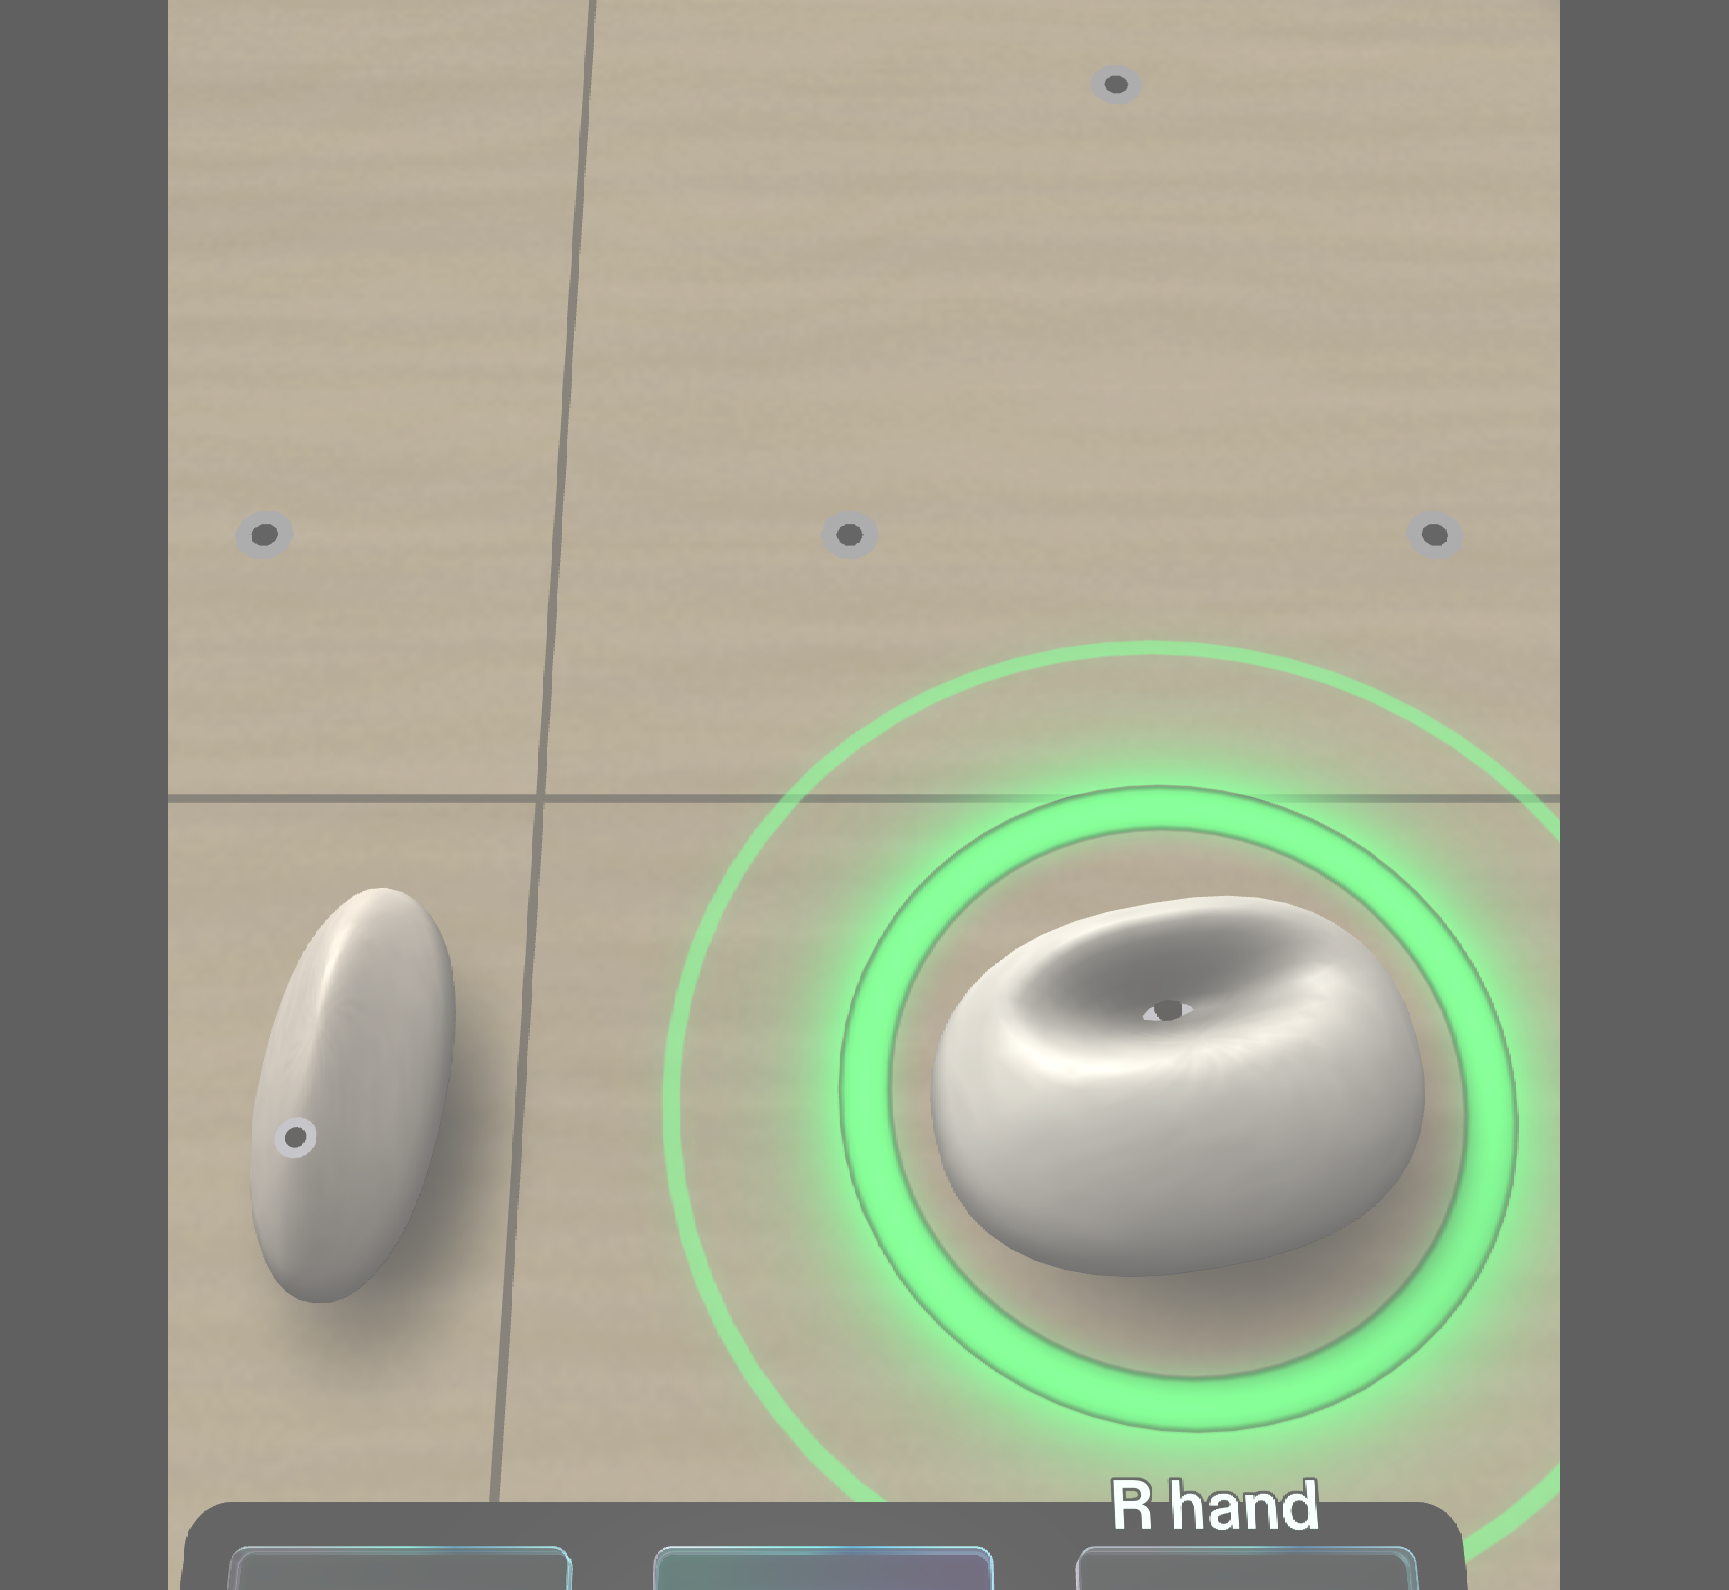
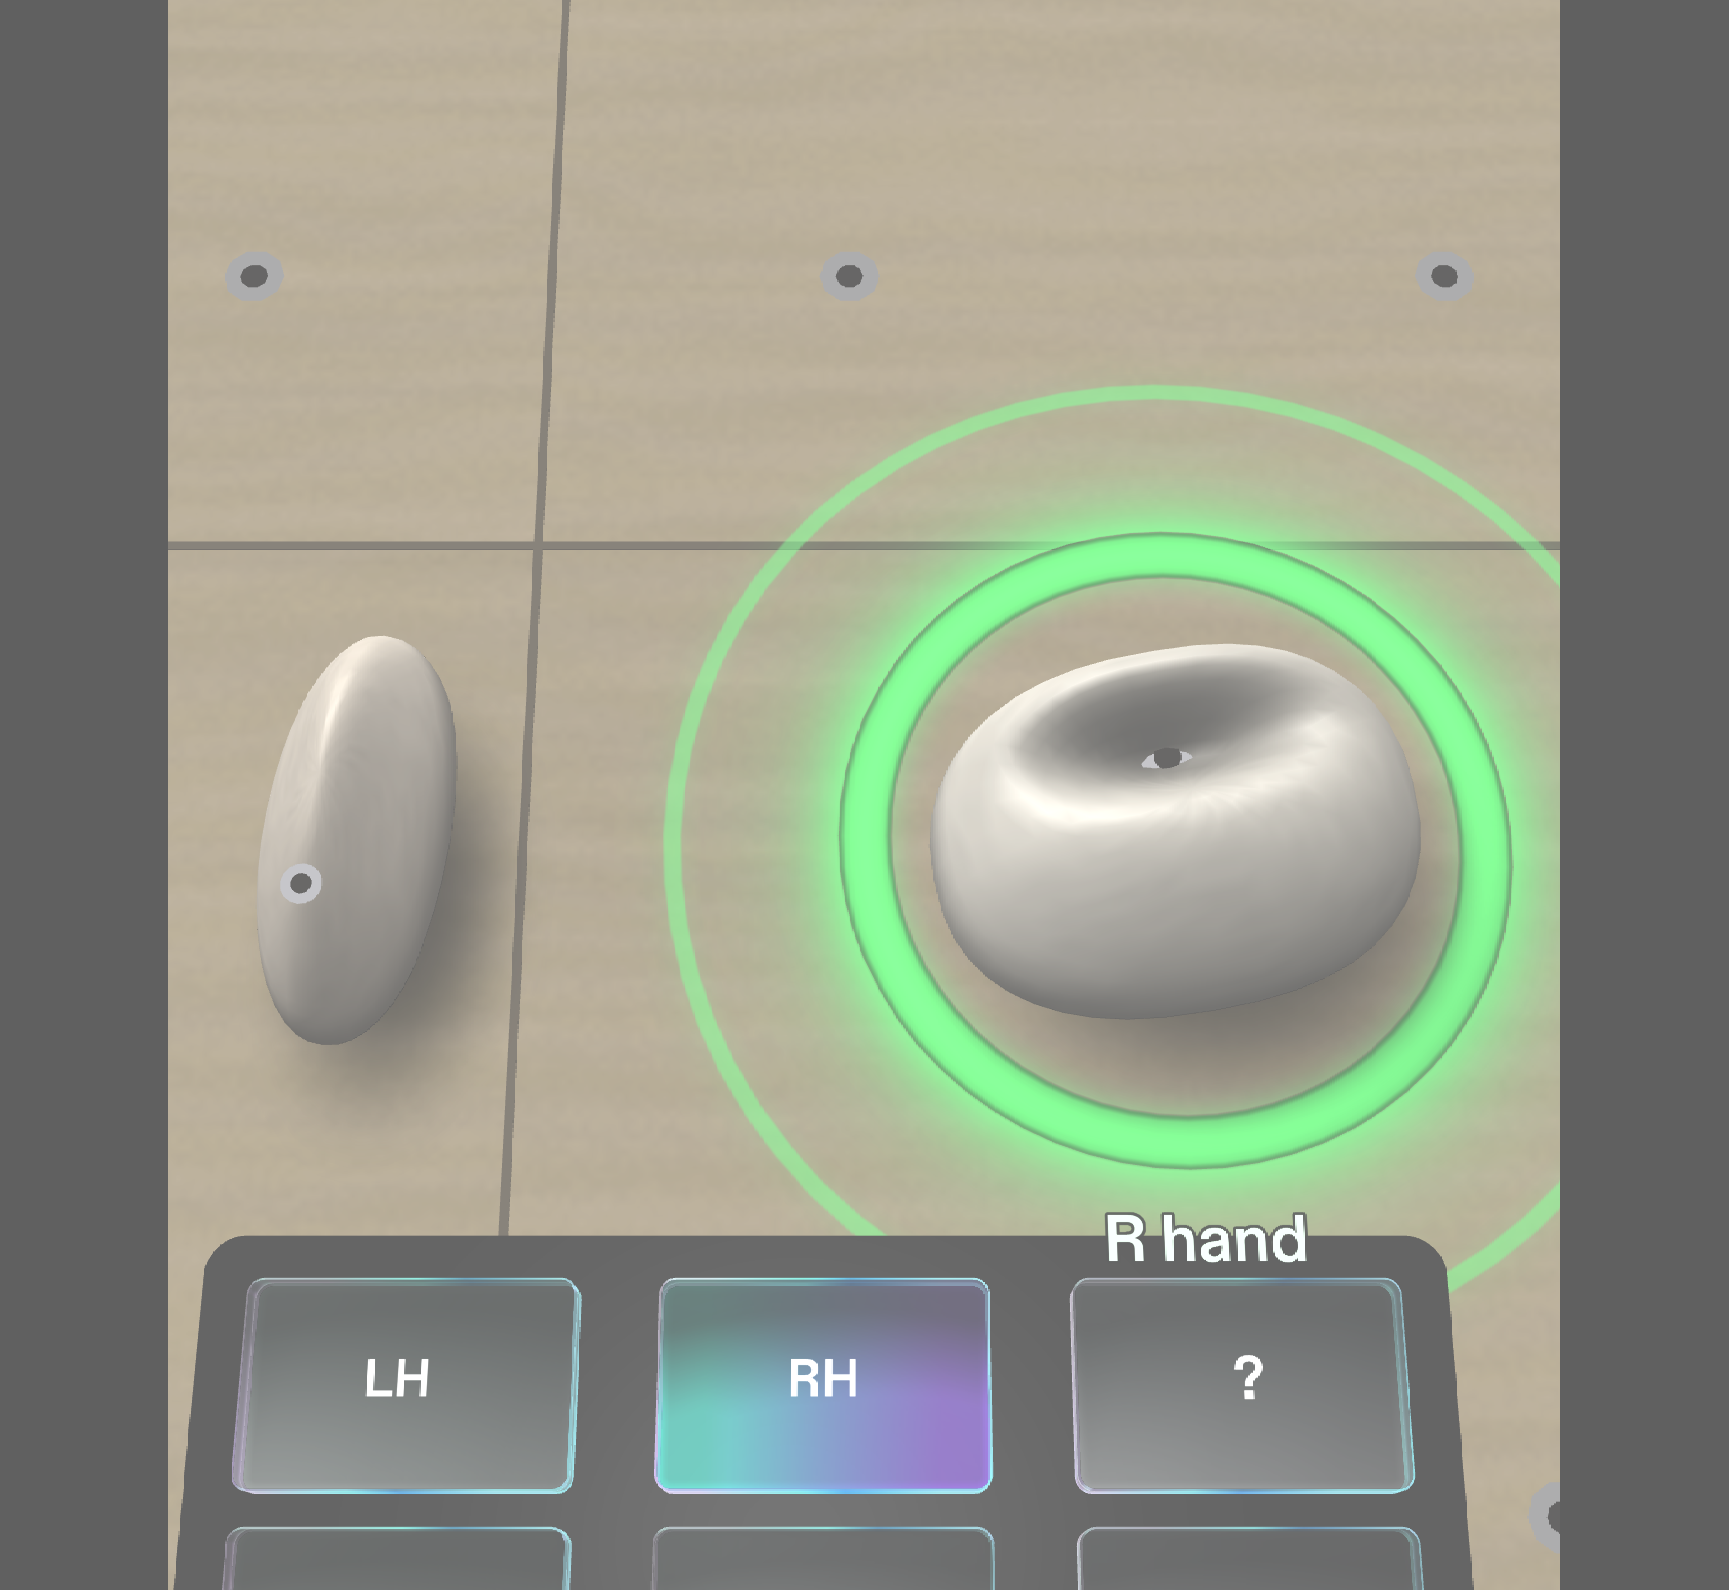
Screenshots retaken for the ring and figure changes; DEVPOST checked against them
Retaken from the same poses as session 15, each looked at before this commit:
- beta-195cm: "2 · LH" on the jug h10 now sits on a green ring (it was red);
  no figure smudge at the bottom
- beta-155cm: "2 · LH" on the green pinch h09; h10 untagged and red, as it should be
- ground-250-lower / -upper: the two looks from 2.5 m, no figure, the four limb
  markers on their holds, "TOP" over h20
- ground-mode: from 1.85 m, no figure, every tag on a ring of its own colour
- on-wall-mode: 70 cm, one ring and "R hand" (the figure is behind the panel here)
height-control.png doesn't change (On wall, panel close-up) and stays.

DEVPOST v4, line by line against these: the tag/ring rule now says the hold
under a tag wears its colour; the figure is On wall only, and why; sixteen
sessions; the LEAF log's extract script is named; the r3 description includes
the ring under the tag; the "panel beside the problem" claim now says r5 backs
it and the shots only show the panel's edge. VIDEO_PLAN scene 1 no longer
promises the figure from 2.5 m.

diff --git a/devpost/DEVPOST.md b/devpost/DEVPOST.md
@@ -1,10 +1,10 @@
-# Devpost draft: Next Hold (v3, 29.10, after session 15). Learn AR with SPECS. Entrant: Roman Pryvrotskyi (individual).
+# Devpost draft: Next Hold (v4, 29.10, after session 16). Learn AR with SPECS. Entrant: Roman Pryvrotskyi (individual).
 
 ## Tagline
 A bouldering coach on your glasses: read the problem for your own body from the mats, then climb with one ring showing the next move.
 
 ## What it does
-You stand on the mats, about two and a half metres back, and look up and down the problem you've marked, the way climbers read a problem before they start. Every free hold in it has a ring: green, yellow or red, for the hand or foot you'd move now (the holds you're on show a small marker). The rings stay on the holds as you look around, so the whole problem never has to fit in one view. The best next move glows with its label, "R hand", and the two moves after it are small tags on their own holds, "2 · LH" and "3 · LF". Each tag is outlined in its own colour, green or yellow: how secure that move will be for you when its turn comes. If a later move goes onto a hold one of your limbs is on now, that hold gets a ring in the tag's colour. The top hold says "TOP". Holds that aren't part of the problem fade back. That's reading the problem, the thing good climbers do before they touch the wall, worked out for your body.
+You stand on the mats, about two and a half metres back, and look up and down the problem you've marked, the way climbers read a problem before they start. Every free hold in it has a ring: green, yellow or red, for the hand or foot you'd move now (the holds you're on show a small marker). The rings stay on the holds as you look around, so the whole problem never has to fit in one view. The best next move glows with its label, "R hand", and the two moves after it are small tags on their own holds, "2 · LH" and "3 · LF". Each tag is outlined in its own colour, green or yellow: how secure that move will be for you when its turn comes. The hold under a tag wears that colour too, even when the hand you'd move now couldn't reach it, so a tag never sits on a ring of another colour. The top hold says "TOP". Holds that aren't part of the problem fade back. That's reading the problem, the thing good climbers do before they touch the wall, worked out for your body.
 
 Then you climb. Up close the glasses see about one hold at a time, so when you come closer than about 80 cm the Lens switches to **On wall** by itself: one ring on the next hold, and its label, "R hand", which stays. Step back past about 1.2 m and the whole problem is there again. If the next hold is out of view, an arrow at the edge and a soft chime point you to it.
 
@@ -16,7 +16,7 @@ The colour isn't a guess about the route. It's worked out from where your body i
 
 The 1-2-3 is a plan, not three greedy guesses. After the glowing move, the Lens searches every hand and foot and every hold of the problem for the shortest way to the top in moves you can make (green or yellow), and among those the most secure. It shows the first three moves of that plan. You set your height in the panel (150 to 200 cm) and every reach rescales, so the plan changes with your body. From the same start, a 155 cm climber gets "R hand up, then L hand to the pinch, then L foot up"; from about 185 cm the left hand goes straight to the big jug up and left of the pinch instead, and the last reach to the top gets easy. The two screenshots `beta-155cm.png` and `beta-195cm.png` show it. To be clear: we set up the demo wall to show this. We moved hold h10 to a big jug up and to the left and added it to the problem, because on the old problem every height got the same three moves. The route search itself is general and doesn't know about h10: the port test checks it against a brute force over every route at 7 heights (150 to 200 cm), starting with each of the 4 limbs.
 
-Move a hand or a foot, or change your height, and every ring, the glow and the tags update in the same frame. A thin, soft stick figure on the wall shows where your body is: a small head, a spine from the shoulders to the hips, and arms and legs bent at the elbows and knees, each ending on its hold. Pinch "?" and then a ring, and it tells you why in plain words: "PINCH HOLD · LONG REACH".
+Move a hand or a foot, or change your height, and every ring, the glow and the tags update in the same frame. On the wall, a thin, soft stick figure shows where your body is: a small head, a spine from the shoulders to the hips, and arms and legs bent at the elbows and knees, each ending on its hold. From the mats it's hidden. From 2.5 m it was a faint smudge that pulled the eye from the rings, and the small markers on the holds you're on already show where you are. Pinch "?" and then a ring, and it tells you why in plain words: "PINCH HOLD · LONG REACH".
 
 ## Who it's for
 Indoor boulderers, especially newer ones, who stall halfway up a problem because they can't see their options from where they hang. A phone can't help there: you'd have to let go of the wall to look at it, and a beta video has to be studied before you start, not while you're on the problem.
@@ -39,14 +39,14 @@ The preview can't recognise a real wall or track a body, so, as the rules sugges
 On real SPECS, the limb toggles would be body tracking, so climbing itself takes no pinches at all: you move, and the rings follow. Asking "why" would be a look-and-dwell on a ring. Both are our design for the device, and both are "feel unproven" until we can try them on a wall.
 
 ## How we built it
-We planned it with the `plan-lens` skill, which wrote `devpost/design-brief.md`, and built it with CLAD through the Lens Studio MCP, in fifteen sessions logged in `devpost/BUILD_LOG.md`. The scoring rule came first, as a small tested reference in plain JavaScript we wrote before the build (`devpost/scoring-reference/`, 27 checks). Every change to the rule went into the reference first, and CLAD ported it to TypeScript; the port passes 57 checks, including the best-move search and the 1-2-3 plan, which is checked against a brute force over every possible route. Every done criterion in the brief, and every later change, has a LEAF scenario: 17 of 17 pass in the preview, and the raw output of the last full run is in `devpost/LEAF_RUN_2026-10-29.txt`. One sets the height with real pinches and checks that 155 and 195 cm get different 1-2-3s from the same start, every step green or yellow, and that the switch happens inside the pinch's own frame. One puts a second camera 2.5 m back, turns it to the lower and then the upper half of the problem, and checks that between the two looks every ring is whole in the glasses' view. Another checks on screen that each next-move tag sits nearest its own hold and names the limb, and that it wears its step's colour. A third walks a camera in and out and checks the view switches at 80 cm and 1.2 m.
+We planned it with the `plan-lens` skill, which wrote `devpost/design-brief.md`, and built it with CLAD through the Lens Studio MCP, in sixteen sessions logged in `devpost/BUILD_LOG.md`. The scoring rule came first, as a small tested reference in plain JavaScript we wrote before the build (`devpost/scoring-reference/`, 27 checks). Every change to the rule went into the reference first, and CLAD ported it to TypeScript; the port passes 57 checks, including the best-move search and the 1-2-3 plan, which is checked against a brute force over every possible route. Every done criterion in the brief, and every later change, has a LEAF scenario: 17 of 17 pass in the preview. The raw output of the last full run is in `devpost/LEAF_RUN_2026-10-29.txt`, and `tests/extract_leaf_run.mjs` is the script that copies it out of the Lens Studio log. One sets the height with real pinches and checks that 155 and 195 cm get different 1-2-3s from the same start, every step green or yellow, and that the switch happens inside the pinch's own frame. One puts a second camera 2.5 m back, turns it to the lower and then the upper half of the problem, and checks that between the two looks every ring is whole in the glasses' view. Another checks on screen that each next-move tag sits nearest its own hold and names the limb, and that it and the ring under it wear its step's colour. A third walks a camera in and out and checks the view switches at 80 cm and 1.2 m.
 
 **Logic proven** (tests and preview): the colours match the rule, a move or a height change recomputes everything in one frame, an out-of-reach hold is always red, after the glow the 1-2-3 follows the shortest secure route to the top for that height, the tags and their colours, the suggestion and its label, the "why" line, that two looks from 2.5 m cover the whole problem, the switch between Ground and On wall by distance, and setup in any order.
 **Feel unproven** (only real glasses can tell): whether rings read well mid-climb, real hold detection, hand tracking on a wall, looking up through a narrow view, and whether 80 cm and 1.2 m are the right switch points on a real wall.
 
 ## What we learned
 - **The field of view decides the design.** On the wall your face is 30–45 cm from the holds, and the glasses see about one hold there. Even from 1.8 m the whole problem doesn't fit in one view, and real gym walls are taller than our 3 m stand-in. But climbers don't read a problem in one glance: they stand 2–3 m back and look up and down it. Rings that stay on the holds suit that, so the Lens splits the job the way climbers already do. From 2.5 m, one look at the lower half and one at the upper half cover every ring (5 and 7 of the 10, all 10 between them); then you climb with one ring at a time.
-- **Sizes have to follow you.** A ring that reads at the wall is a speck from 2.5 m, so on the ground the rings, labels, tags, the control panel and the why-line size themselves from your real distance and look the same wherever you stand. The control panel moves beside the problem there, so it never covers a hold. (The setup panel doesn't resize yet; you use it up close.)
+- **Sizes have to follow you.** A ring that reads at the wall is a speck from 2.5 m, so on the ground the rings, labels, tags, the control panel and the why-line size themselves from your real distance and look the same wherever you stand. The control panel moves beside the problem there, so it never covers a hold (test r5 checks this from 1.25 and 2.5 m; in the screenshots you only see its edge, on the right). (The setup panel doesn't resize yet; you use it up close.)
 - **On an additive display, dark is invisible.** The first wall was grey and the holds disappeared into it. Light wood, light holds and glowing rings fixed it.
 - **Beta depends on the body, and a greedy look-ahead hides it.** Taking the best move one step at a time picks the same holds for almost everyone. Searching for the way to the top is what makes a tall climber skip a hold and a shorter one bring a foot up first.
 - **The words matter as much as the colours.** "Safe" would be a promise a pair of glasses can't keep, so the Lens never says it.

diff --git a/devpost/VIDEO_PLAN.md b/devpost/VIDEO_PLAN.md
@@ -16,7 +16,7 @@ now · Green / yellow / red · Tag "2 · LH" = your next moves, in their own col
 | # | Time | Picture (full frame) | Voice-over |
 |---|---|---|---|
 | 0 | 0:00–0:08 | Black, then the wall fades in from 2.5 m back, no overlays yet. | "Halfway up a problem, arms burning, a lot of climbers stop because they can't see where to go next." |
-| 1 | 0:08–0:30 | Overlays on, standing about 2.5 m back. Look down at the lower half (the start, the feet, the figure), then up at the upper half (the glow on "up", "2 · LH", "3 · LF", "TOP"). Legend card. | "So you read the problem first, from the mats, the way climbers do. Every hold gets a ring for your body: green is a secure grip from where you are, red is out of reach. The glow is your next move, and the tags are the two after it." |
+| 1 | 0:08–0:30 | Overlays on, standing about 2.5 m back. Look down at the lower half (the start, the feet and their markers), then up at the upper half (the glow on "up", "2 · LH", "3 · LF", "TOP"). Legend card. | "So you read the problem first, from the mats, the way climbers do. Every hold gets a ring for your body: green is a secure grip from where you are, red is out of reach. The glow is your next move, and the tags are the two after it." |
 | 2 | 0:30–0:48 | Walk in with W. Past 1.2 m the rings stay; under 80 cm the view switches to On wall by itself: one ring, "R hand", the panel's button reads "On wall". | "Walk up to the wall and the glasses only see about one hold. So the Lens switches by itself: one ring, one word." |
 | 3 | 0:48–1:05 | Pinch RH, pinch the glowing hold "up". The hand marker jumps, the ring moves to h09 and its label changes. Step back past 1.2 m: Ground again, the tags have moved on. | "Make the move and everything recomputes in the same frame. Step back and the plan has moved on with you." |
 | 4 | 1:05–1:30 | Ground, the upper look. Pinch "Height −" down to 155 cm: "2 · LH" sits on the pinch h09. Pinch "+" up to 195 cm: in one pinch, "2 · LH" jumps to the big jug h10. Hold for 2 s on each. Then cut to `beta-155cm.png` and `beta-195cm.png` side by side for 3 s. | "The plan is searched for your body. A shorter climber takes the pinch; a taller one skips it for the big jug up to the left, and the top gets easy. Same wall, same start, a different 1-2-3." |
